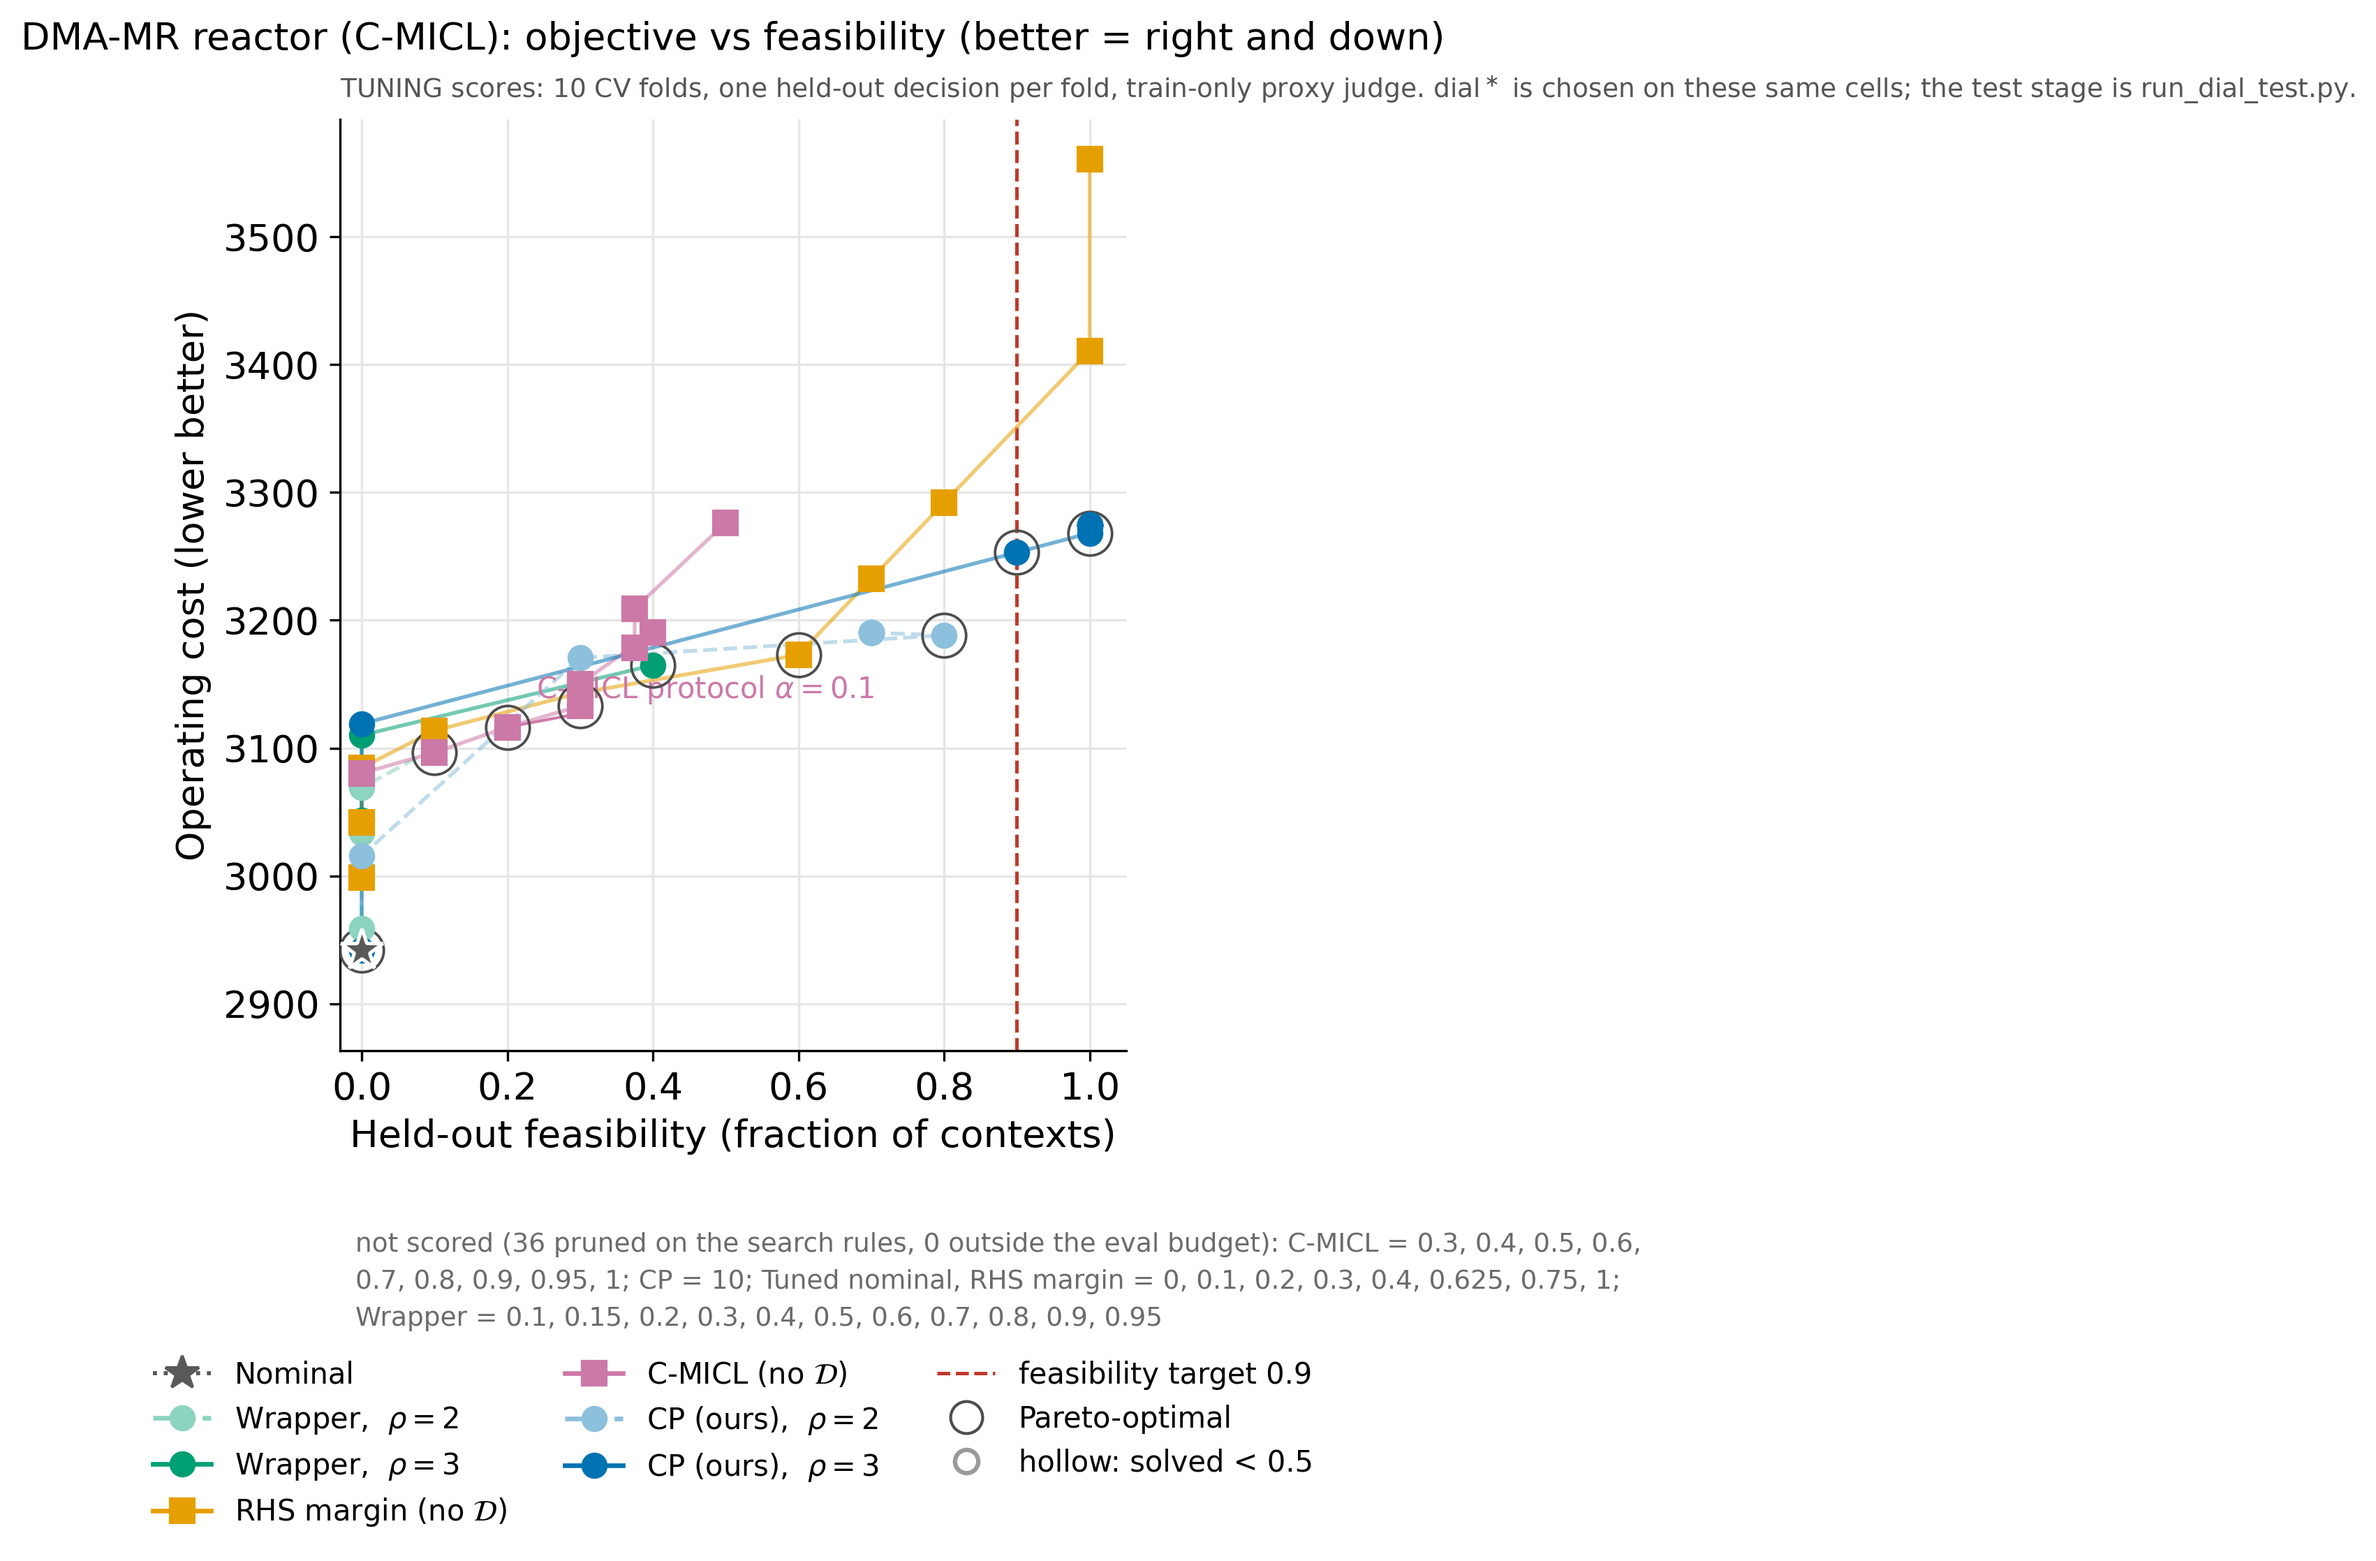
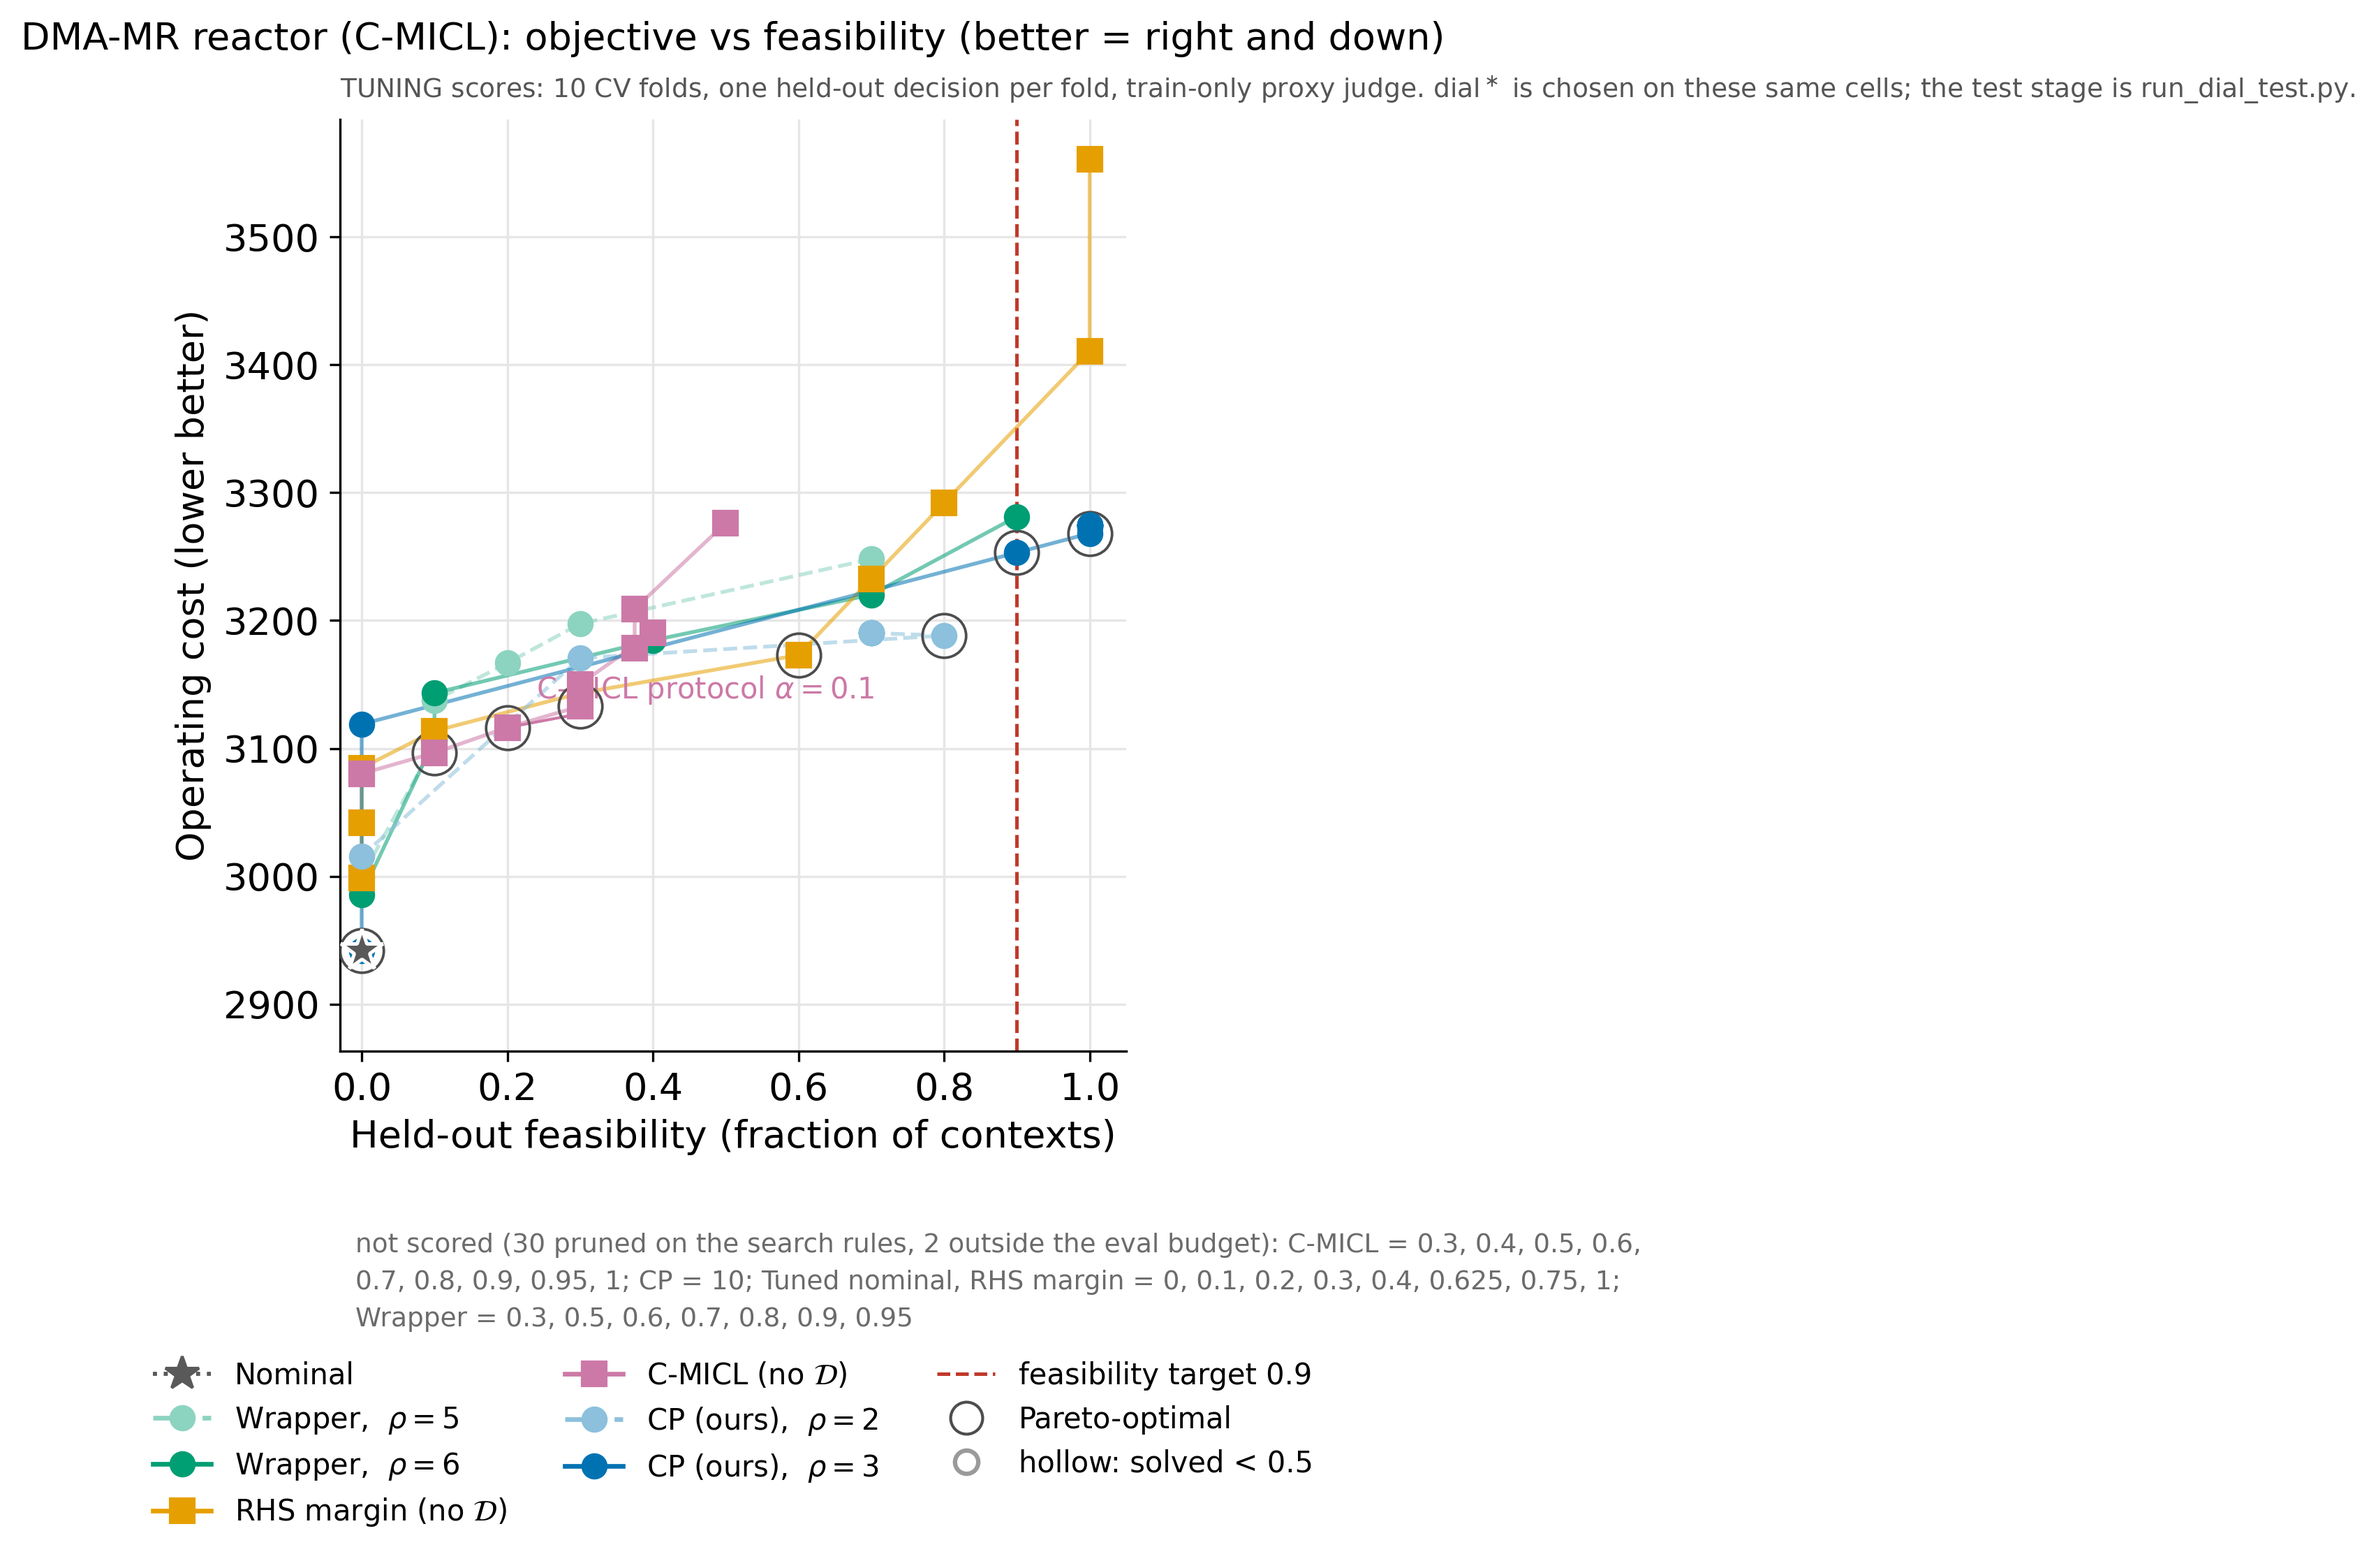
Reactor dial cell is current; reactor formulation in method.tex
Authored in the working tree before this session; committed as-is.

The 2026-08-28 re-run with --drop-series wrapper@2 wrapper@3 completed, so
CLAUDE.md moves the cell from COLUMN-SUPERSEDED to current and records what
the ODE test stage found: every decision the sweep produced is ODE-feasible
10/10, including the best_feas cells the proxy scored 0.50-0.80, and only
nominal fails (0/10 on both judges). The proxy judge is conservative at the
boundary, so the ODE stage separates the methods on cost, not feasibility,
and a tuning feasibility below 0.9 there is not evidence of a violation.

method.tex gains the reactor's full formulation: the D.1 constraints as
cross-multiplied linear inequalities, the variable box, and why c is fixed
at ones. Figures regenerated from the completed cell.

Claude-Session: https://claude.ai/code/session_01253q6ozarCQXc2YZqCHYoB

diff --git a/presentations/method.tex b/presentations/method.tex
@@ -110,29 +110,106 @@
 % ===========================================================================
 \begin{frame}{Problem settings: reactor (C-MICL)}
   \small
-  DMA-MR membrane reactor, methane $\to$ hydrogen + benzene
-  (Ovalle et al.\ 2025 App.~D.1; reactor of Carrasco \& Lima 2017).
+  DMA-MR membrane reactor, methane $\to$ hydrogen + benzene (Ovalle et al.\ 2025
+  App.~D.1). $\hat h$ predicts outlet $F_{\mathrm{C_6H_6}}$ [mg/h]; truth = the
+  ODE overleaf.
   \vspace{-0.3em}
   \[
-    \min_{x}\; c^\top x \quad\text{s.t.}\quad \hat h(x;\theta)\ge 50,
-    \qquad x=(v_0, v_{\mathrm{He}}, T, d_t, L)
+    \begin{aligned}
+      \min_{x}\;\; & c^\top x, \quad x=(v_0,\,v_{\mathrm{He}},\,T,\,d_t,\,L),
+        \quad c=\mathbf 1 \\
+      \text{s.t.}\;\; & \hat h(x;\theta)\ \ge\ 50 && \text{(D.1g --- \emph{learned})}\\
+      & 10 \le L/d_t \le 150, \qquad 20 \le v_0/L \le 120 && \text{(D.1b--e,}\\
+      & 0.75 \le v_0/v_{\mathrm{He}} \le 3, \qquad v_0 \le 1.1\,T
+        && \text{cross-multiplied}\\
+      & \ell \le x \le u && \text{$\to$ 7 linear ineqs.)}
+    \end{aligned}
   \]
-  \vspace{-1.4em}
+  \vspace{-1.1em}
+  \begin{center}\footnotesize
+  \begin{tabular}{@{}lccccc@{}}
+    \toprule
+      & $v_0$ [cm$^3$/h] & $v_{\mathrm{He}}$ [cm$^3$/h] & $T$ [K] & $d_t$ [cm] & $L$ [cm] \\
+    \midrule
+    $\ell$ & 450 & 450 & 997.18 & 0.5 & 10 \\
+    $u$    & 1500 & 1500 & 1348.12 & 2.0 & 100 \\
+    \bottomrule
+  \end{tabular}
+  \end{center}
+  \vspace{-0.5em}
+  \begin{itemize}
+    \item $n=1000$ designs uniform over the box; labels $+\,\mathcal N(0,2^2)$,
+      range $11$--$70$. Single decision, no context.
+    \item Lower bound $\Rightarrow$ $w=-1$, $\text{rhs}=-50$ in the repo's
+      $\sum_m w_mf_m\le\text{rhs}$ form.
+    \item $c$ \textbf{fixed} at ones --- a new $c$ is a different problem. Units
+      are incommensurate, so the objective is effectively $v_0+v_{\mathrm{He}}+T$.
+  \end{itemize}
+\end{frame}
+
+% ---------------------------------------------------------------------------
+\begin{frame}{Reactor: the ground truth is an ODE system}
+  \small
+  Carrasco \& Lima (2017), integrated along the tube, $z:0\to L$. State
+  $F(z)\in\mathbb R^{8}$: tube-side $(\mathrm{CH_4},\mathrm{C_2H_6},\mathrm{H_2},
+  \mathrm{C_6H_6})$ and the same four on the shell (sweep) side. Concentrations
+  $C_i=F^t_i/v$ with $v=v_0F^t_{\text{tot}}/F_{t0}$; cross-section
+  $A_t=\tfrac\pi4 d_t^2$, catalyst factor $\kappa=(1-\nu_b)\eta=0.45$. Two
+  equilibrium-limited reactions, as the vendored RHS writes them (self-consistent,
+  $\mathrm H$ unbalanced):
+  $2\mathrm{CH_4}\rightleftharpoons\mathrm{C_2H_6}+2\mathrm{H_2}$,
+  $3\mathrm{C_2H_6}\rightleftharpoons\mathrm{C_6H_6}+3\mathrm{H_2}$.
+  \vspace{-0.4em}
+  \[
+    r_1 = 3600\,k_1C_{\mathrm{CH_4}}\Big(1-\tfrac{k_1^{-}C_{\mathrm{C_2H_6}}C_{\mathrm{H_2}}^{2}}
+      {k_1C_{\mathrm{CH_4}}^{2}}\Big),
+    \quad
+    r_2 = 3600\,k_2C_{\mathrm{C_2H_6}}\Big(1-\tfrac{k_2^{-}C_{\mathrm{C_6H_6}}C_{\mathrm{H_2}}^{3}}
+      {k_2C_{\mathrm{C_2H_6}}^{3}}\Big)
+  \]
+  \vspace{-0.6em}
+  \[
+    \begin{aligned}
+      \tfrac{d}{dz}F^t_{\mathrm{CH_4}} &= -\kappa r_1A_t - J_{\mathrm{CH_4}}, &\quad
+      \tfrac{d}{dz}F^t_{\mathrm{H_2}} &= \kappa(r_1+r_2)A_t - J_{\mathrm{H_2}}, \\[0.15em]
+      \tfrac{d}{dz}F^t_{\mathrm{C_2H_6}} &= \kappa(\tfrac12 r_1-r_2)A_t - J_{\mathrm{C_2H_6}}, &\quad
+      \tfrac{d}{dz}F^t_{\mathrm{C_6H_6}} &= \tfrac13\kappa r_2A_t - J_{\mathrm{C_6H_6}}, \\[0.15em]
+      \tfrac{d}{dz}F^s_i &= +J_i, &\quad
+      J_i &= Q_i\,\pi d_t\big(p_{i,t}^{1/4}-p_{i,s}^{1/4}\big)
+    \end{aligned}
+  \]
+  \vspace{-0.7em}
+  \begin{itemize}\footnotesize
+    \item $J_i$ leaves the tube for the shell ($p$ in atm; $Q_i=Q$ for
+      $\mathrm{H_2}$, $Q/S$ otherwise, $S=1500$): $\mathrm{H_2}$ leaves
+      $1500\times$ faster, so Le Chatelier drives both equilibria forward --- the
+      point of the membrane.
+    \item Inlet pure methane $F_{t0}=P_tv_0/(RT)$; sweep helium
+      $F_{\mathrm{He}}=P_sv_{\mathrm{He}}/(RT)$ enters the shell \emph{total}
+      only. Oracle $h(x)=10^{3}M_B\,F^t_{\mathrm{C_6H_6}}(L)$.
+    \item RHS vendored unchanged from \texttt{opyrability} (the code C-MICL cite).
+      \texttt{solve\_ivp} at rtol$=$atol$=10^{-10}$: the defaults are $3.8$ off on
+      a Table~1 row.
+  \end{itemize}
+\end{frame}
+
+% ---------------------------------------------------------------------------
+\begin{frame}{Reactor: why this instance}
+  \small
   \begin{itemize}
     \item \textbf{Ground truth is a system of ODEs}, not a fitted model --- the only
       such oracle here, and the reason for the instance. Feasibility is
-      \emph{integrated}.
+      \emph{integrated}, so the judge carries no error of its own at the boundary,
+      which is exactly where a constrained optimum sits.
     \item \textbf{Two judges, kept apart.} ODE $\Rightarrow$ final evaluation and
       audits. Proxy ensemble (7 types, incl.\ MLP) $\Rightarrow$ $\rho$ tuning:
-      calibrating $\rho$
-      against exact truth is the same error as pinning $\mathcal D$ to synthetic's
-      known $\sigma$.
-    \item $n=1000$ uniform over the box; 4 linear ratio constraints (D.1b--e).
-      Lower bound, so $w=-1$, $\text{rhs}=-50$. $c$ \textbf{fixed} at ones --- a new
-      $c$ is a different problem.
-    \item \textbf{Design $\ne$ feasible set}: only $216/1000$ ($21.6\%$) rows meet
-      the ratio constraints, $30$ ($3.0\%$) also reach $50$. Kept --- it is what the
-      paper specifies, and it makes boundary uncertainty genuine.
+      calibrating $\rho$ against exact truth is the same error as pinning
+      $\mathcal D$ to synthetic's known $\sigma$.
+    \item \textbf{Design $\ne$ feasible set}: the $1000$ rows are uniform over the
+      box, but the optimizer lives in the box $\cap$ the ratio constraints. Only
+      $216/1000$ ($21.6\%$) rows meet the ratios, $30$ ($3.0\%$) also reach $50$.
+      Kept --- it is what the paper specifies, and it makes boundary uncertainty
+      genuine.
     \item \textbf{Published baseline}: their Fig.~1 has W-MICL --- our wrapper ---
       at $0.45$--$0.85$ ground-truth feasibility, never reaching $0.9$.
     \item Validated: RF $0.855$ vs their $0.864$, GBM $0.912$ vs $0.907$

diff --git a/CLAUDE.md b/CLAUDE.md
@@ -372,23 +372,27 @@ margin, is **structural**, not evidence of stability.
   ellipsoid geometry, fixed temporal folds. Inside it the **dial cells are newest
   and the only tested ones**: gastric with all three phases, the reactor with a
   full curve, a star table and an ODE-judged test stage.
-- **The reactor dial cell is COLUMN-SUPERSEDED, not invalidated** (2026-08-28).
-  Its rows are the answer at rho columns {2, 3} for **every** method, and the
-  wrapper's default columns are now **{5, 6}** (`METHOD_RHO_COLUMNS`), so its two
-  committed wrapper series are no longer the ones the code asks for. Everything
-  else in the cell stands: `cp@3` tau*=1.0 (feas 0.9, obj 3253), `margin` m*=4.0
-  (feas 1.0, obj 3411), both `interior`; `cp@2` tops out at 0.80 and turns
-  **inside** the tau grid; `cmicl` caps at 0.50 at its n_cal=180 floor — the
-  METHOD running out, not the grid, so {2, 3} does bracket CP's transition.
-  **The re-run is a CLUSTER job**: `--drop-series wrapper@2 wrapper@3` keeps the
-  score checkpoint, so CP, margin and cmicl replay free and only the wrapper at
-  rho 5 and 6 is solved. `results/figures/fig_dial_*_reactor_*` were regenerated
-  from the committed {2, 3} curve and will need regenerating again after it.
+- **The reactor dial cell is CURRENT and complete** (re-run 2026-08-28 with
+  `--drop-series wrapper@2 wrapper@3`; figures regenerated from it). Three
+  methods have a `dial*`: `cp@3` tau*=1.0 (feas 0.9, obj 3253, `interior`),
+  `wrapper@6` alpha*=0 (feas 0.9, obj 3281, `grid_end` — **structural**, alpha=0
+  is the strictest level), `margin` m*=4.0 (feas 1.0, obj 3411, `interior`).
+  No `dial*`: `cp@2` caps at 0.80 `none_interior`; `wrapper@5` at 0.70 and
+  `cmicl` at 0.50 (n_cal=180 floor), both `none_grid_end` but both on a
+  **structural** end — the METHOD running out, not the grid. The wrapper
+  reproduces the `_wraprho456` probe exactly (0.70 / 0.90 at rho 5 / 6).
+  - **The proxy judge is CONSERVATIVE relative to the ODE.** In the test stage
+    every decision the sweep produced is ODE-feasible **10/10** — including the
+    `best_feas` cells the proxy scored 0.50–0.80 — and only `nominal` fails
+    (0/10 on both judges). So the ODE stage separates the methods on **cost**,
+    not on feasibility, and a tuning feasibility below 0.9 on this instance is
+    not evidence the decision violates truth. `cmicl` at alpha=0.0075 is the one
+    row that does not survive the refit: `full` phase `solved_frac=0`.
   - `reactor_dial_*_wraprho456.csv` is the **`--cell-tag` probe** that measured
     those columns: the wrapper alone at rho {4, 5, 6}, feasibility 0.50 / 0.70 /
-    0.90 at alpha=0, obj 3281 at rho=6 (vs CP's 3253 at rho=3). It resumes
-    nothing from the untagged cell and `run_dial_test.py` does not read it, so it
-    is the *evidence* for the column move, not a row of the new cell.
+    0.90 at alpha=0. It resumes nothing from the untagged cell and
+    `run_dial_test.py` does not read it, so it is the *evidence* for the column
+    move, superseded now by the cell itself.
 - **The gastric dial cell is still GRID-SUPERSEDED, not invalidated**: it predates
   the per-problem C-MICL alpha floor (`CMICL_ALPHA_GRID_EXTRA`), so its `cmicl`
   row is "no cell cleared solved >= 0.5" rather than a measured cap, and its star
